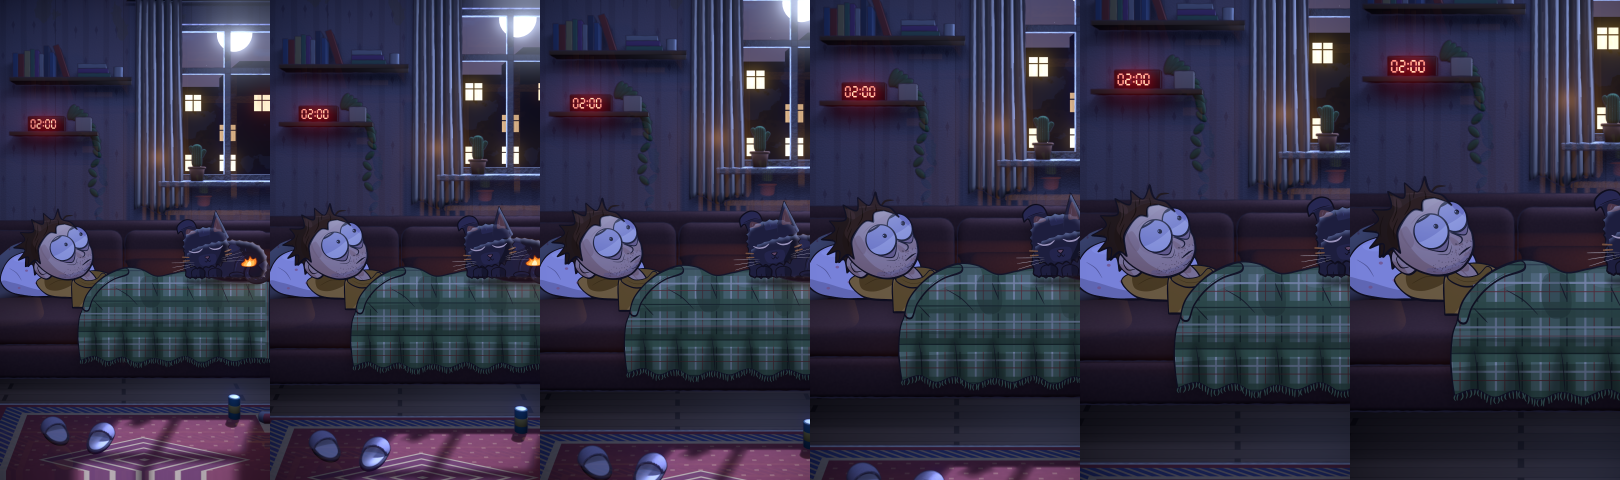
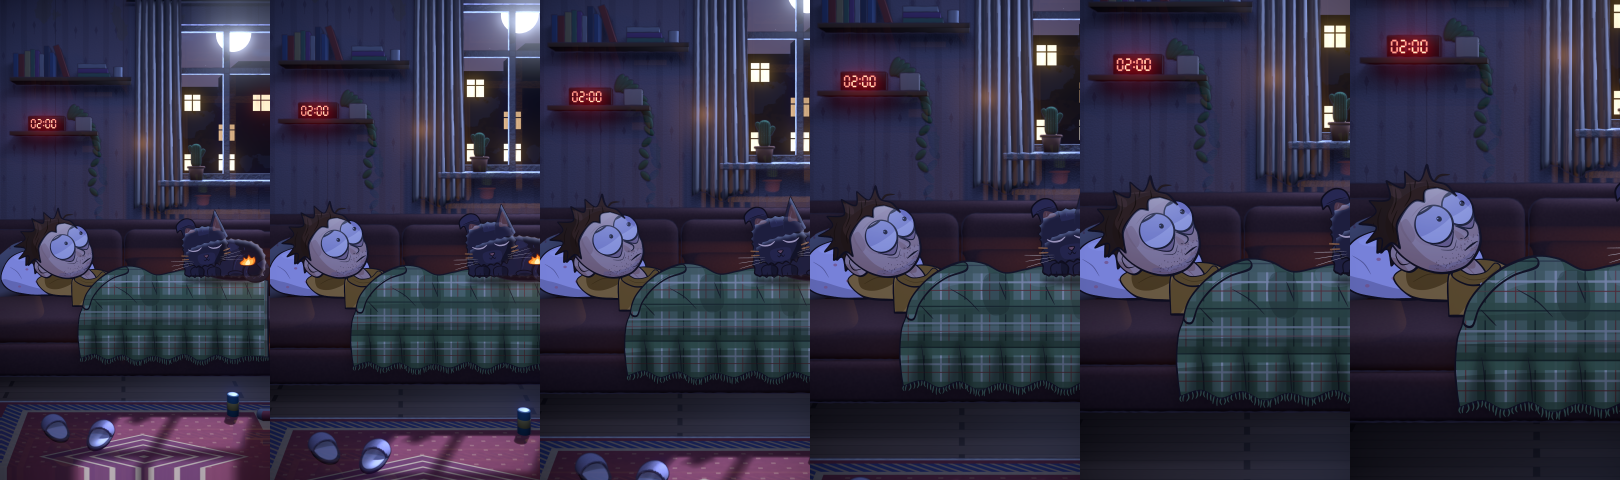
Reel 25: work-in-progress update
Claude-Session: https://claude.ai/code/session_01WL83YHdupNJiw52fjyDVVG

diff --git a/videos/25_noch_dela/story/ext/scene_list.py b/videos/25_noch_dela/story/ext/scene_list.py
@@ -19,9 +19,9 @@ FS = 128
 SC = FS / G["upm"]
 TX0 = 250
 BASES = [700, 900, 1100]
-SLOTS = [(22.74, 23.12), (23.24, 23.86), (23.96, 24.26)]   # письмо строк
+SLOTS = [(22.82, 23.16), (23.24, 23.86), (23.96, 24.26)]   # письмо строк
 ICON = ["report", "phone", "bowl"]
-ICON_IN = [22.50, 22.86, 23.52]                              # прилёт значка (начало)
+ICON_IN = [22.38, 22.52, 22.66]                              # прилёт значка (начало)
 INKC = "#26356f"
 ANG, HSC = -36, 1.12
 _ST = {}
@@ -171,37 +171,41 @@ def bullet(li, t):
 
 
 def flying_icon(li, t):
-    """Значок дела прилетает сверху по дуге к началу строки, ждёт и, когда перо начинает строку, сжимается в точку."""
+    """Значок дела прилетает сверху по дуге на свою строку и ждёт; когда перо начинает строку, он сжимается в точку-маркер
+    (с искорками) — дело превращается в строку."""
     t0 = ICON_IN[li]
     a = SLOTS[li][0]
     if t < t0:
         return ""
-    x1, y1 = TX0 - 46, BASES[li] - 26
-    sx, sy = [820, 300, 700][li], -260
-    T = max(0.22, min(0.36, a - t0 - 0.02))
+    bx, by = TX0 - 46, BASES[li] - 26
+    hx, hy = TX0 + 120, BASES[li] - 50
+    sx, sy = [900, 380, 760][li], -300
+    T = 0.32
     u = clamp((t - t0) / T)
     if t < a:
-        x = sx + (x1 + 70 - sx) * ease_out(u, 2)
-        y = sy + (y1 - 60 - sy) * ease_in(u, 1.6)
-        rot = 60 * (1 - u) * (1 if li % 2 else -1) + 6 * math.sin(t * 9)
-        sc = 1.25 * (1 + 0.15 * math.exp(-max(t - t0 - T, 0) * 12) * (u >= 1))
+        x = sx + (hx - sx) * ease_out(u, 2)
+        y = sy + (hy - sy) * ease_in(u, 1.4)
+        rot = 70 * (1 - u) * (1 if li % 2 else -1)
+        land = max(t - t0 - T, 0)
+        sc = 2.2 * (1 + 0.18 * math.exp(-land * 10) * math.cos(land * 30) * (u >= 1))
+        rot += 4 * math.sin(t * 7 + li) * (u >= 1)
         return icons.icon(ICON[li], x, y, sc, rot, 600 + li * 20)
     e = t - a
     k = 1 - ease_in(clamp(e / 0.16), 1.5)
     if k <= 0.02:
-        if e < 0.4:     # искорки на месте превращения
+        if e < 0.4:
             s = ""
             for j in range(6):
                 ang = j * math.pi / 3 + li
                 r0 = 30 + 70 * ease_out(e / .4)
                 L_ = 22 * (1 - e / .4)
-                s += line([(x1 + math.cos(ang) * r0, y1 + math.sin(ang) * r0), (x1 + math.cos(ang) * (r0 + L_), y1 + math.sin(ang) * (r0 + L_))],
+                s += line([(bx + math.cos(ang) * r0, by + math.sin(ang) * r0), (bx + math.cos(ang) * (r0 + L_), by + math.sin(ang) * (r0 + L_))],
                           6, "#f0a83a", taper=.5, seed=620 + j)
             return s
         return ""
-    x = x1 + 70 * k
-    y = y1 - 60 * k
-    return icons.icon(ICON[li], x, y, 1.25 * k, 0, 600 + li * 20)
+    x = bx + (hx - bx) * k
+    y = by + (hy - by) * k
+    return icons.icon(ICON[li], x, y, 2.2 * k, 0, 600 + li * 20)
 
 
 def frame(sid, t):
@@ -220,5 +224,5 @@ def frame(sid, t):
     art = _ST["paper"] + txt + shadow + hnd + ic
     lin = clamp((t - 22.5) / 2.6)
     u = 0.4 * lin + 0.6 * ease_io(lin)
-    cm = cam(590, 930 - 10 * u, 1.0 + 0.08 * u, -2.0 + 0.8 * u)
+    cm = cam(600, 900 - 10 * u, 1.24 + 0.08 * u, -2.0 + 0.8 * u)
     return svg(f'<rect width="{W}" height="{H}" fill="#8a5a34"/><g transform="{cm}">{art}</g>')
